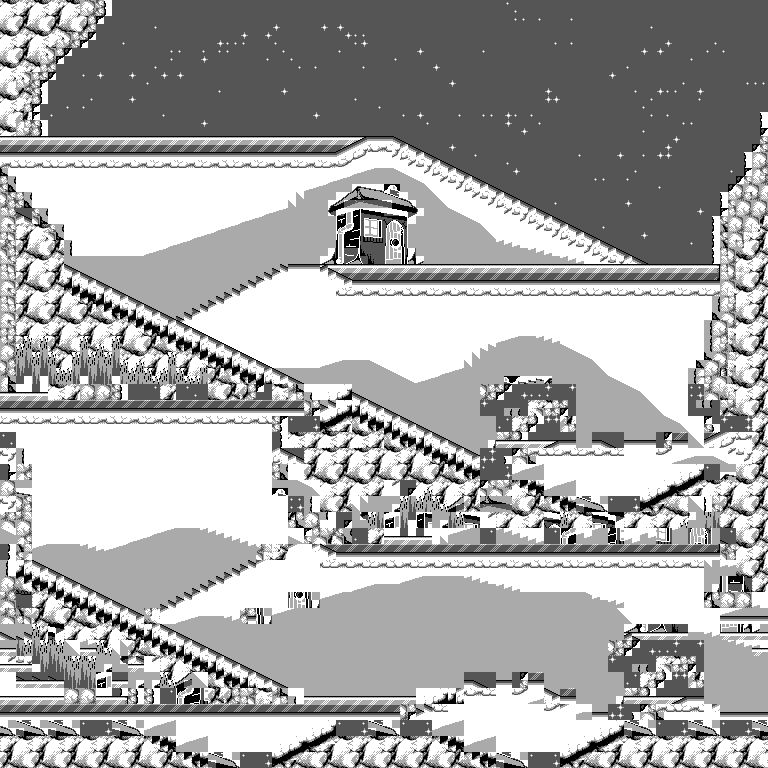
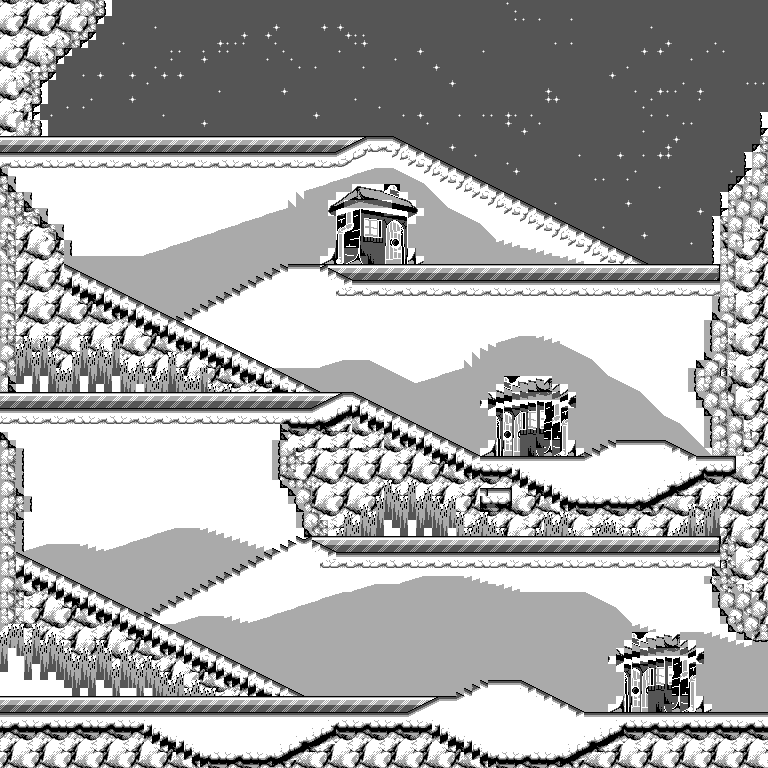
Use extended map data when making map images

diff --git a/tools/map2png/map2png.py b/tools/map2png/map2png.py
@@ -8,8 +8,8 @@ from enum import Enum
 # enum for LevelData
 MAP_BANK = 0
 MAP_BANK_OFFSET = 1
-BLOCKSET_OVERRIDE_BANK = 2
-BLOCKSET_OVERRIDE_BANK_OFFSET = 3
+EXTENDED_MAP_BANK = 2
+EXTENDED_MAP_BANK_OFFSET = 3
 TILESET_BANK = 4
 TILESET_BANK_OFFSET = 5
 BLOCKSET_AND_PALETTE_IDS_BANK = 6
@@ -39,6 +39,51 @@ level_data_pointers = struct.unpack("<"+"H"*61, bank03_data[0x2ca0:0x2d1a])
 
 # loop through the pointers and get data for each
 
+blockset_offsets = [] # list of banks and offsets in the blockset banks
+map_offsets = []
+tileset_offsets = []
+
+for level_counter in range(0, len(level_data_pointers)):
+    #print(bank03_data[p-0x4000:p-0x4000+0x1F])
+    p = level_data_pointers[level_counter]
+    level_data = struct.unpack("<BHBHBHBHBHBHBHBHBHBBBB", bank03_data[p-0x4000:p-0x4000+0x1F])
+    if [level_data[BLOCKSET_AND_PALETTE_IDS_BANK], level_data[BLOCKSET_AND_PALETTE_IDS_BANK_OFFSET]] not in blockset_offsets:
+        blockset_offsets.append([level_data[BLOCKSET_AND_PALETTE_IDS_BANK], level_data[BLOCKSET_AND_PALETTE_IDS_BANK_OFFSET]])
+    if [level_data[MAP_BANK], level_data[MAP_BANK_OFFSET]] not in map_offsets:
+        map_offsets.append([level_data[MAP_BANK], level_data[MAP_BANK_OFFSET]])
+    if [level_data[TILESET_BANK], level_data[TILESET_BANK_OFFSET]] not in tileset_offsets:
+        tileset_offsets.append([level_data[TILESET_BANK], level_data[TILESET_BANK_OFFSET]])
+
+print("Blockset Offsets:")
+sorted_blockset_offsets = sorted(blockset_offsets, key=lambda x: (x[0], x[1]))
+for b in sorted_blockset_offsets:
+    print(f"{b[0]:0{2}x}"+": "+f"{b[1]:0{4}x}")
+
+print("\nMap Offsets:")
+sorted_map_offsets = sorted(map_offsets, key=lambda x: (x[0], x[1]))
+for b in sorted_map_offsets:
+    print(f"{b[0]:0{2}x}"+": "+f"{b[1]:0{4}x}")
+
+print("\nTileset Offsets:")
+sorted_tileset_offsets = sorted(tileset_offsets, key=lambda x: (x[0], x[1]))
+for b in sorted_tileset_offsets:
+    print(f"{b[0]:0{2}x}"+": "+f"{b[1]:0{4}x}")
+
+def get_next_offset(arr, entry):
+    for i, (a, b) in enumerate(arr):
+        if [a, b] == entry:
+            if i + 1 < len(arr):
+                next_a, next_b = arr[i + 1]
+                if next_a == a:
+                    return next_b
+                else:
+                    return 0x8000
+            else:
+                # last element, nothing after
+                return 0x8000
+    print(str(entry) + " not in " + str(arr))
+    raise ValueError("Entry not found in array")
+
 for level_counter in range(0, len(level_data_pointers)):
     #print(bank03_data[p-0x4000:p-0x4000+0x1F])
     p = level_data_pointers[level_counter]
@@ -50,18 +95,22 @@ for level_counter in range(0, len(level_data_pointers)):
     channel_map_number = str(level_counter)
 
     tiles = []
+    blocks = []
+    
+    
+    #os.system('mkdir -p tileset_bins')
+    #os.system('mkdir -p tileset_images')
 
-    # create a colored version of the level's tileset, using palettes
-    tileset_file = "../banks/bank_0"+f"{level_data[TILESET_BANK]:x}"+".bin"
+    
 
-    os.system('mkdir -p tile_bins')
-    os.system('mkdir -p tile_bins/'+level_name+channel_map_number)
-
-    tile_data = open(tileset_file, 'rb').read()[level_data[TILESET_BANK_OFFSET]-0x4000:level_data[TILESET_BANK_OFFSET]-0x4000+0x1000]
+    #out = open('./tileset_bins/tileset_'+level_name+channel_map_number+'.bin', "wb")
+    #out.write(tile_data)
+    #out.close()
+    #os.system('rgbgfx --reverse 1 -o ./tileset_bins/tileset_'+level_name+channel_map_number+'.bin tileset_images/tileset_'+level_name+channel_map_number+'.png')
 
     #print(tile_data)
 
-    count = 0
+    '''count = 0
     for i in range(0, len(tile_data), 0x10):
         data = tile_data[i:i + 0x10]
         if not data:
@@ -71,12 +120,12 @@ for level_counter in range(0, len(level_data_pointers)):
         out.write(data)
         out.close()
         
-        '''palette_index = palette_ids[count]
+        #palette_index = palette_ids[count]
         #print(palette_index)
-        temp_palette_data = palette_data[0x8*palette_index:0x8*palette_index+0x8]
-        f = open("./temp.bin", "wb")
-        f.write(temp_palette_data)
-        f.close()'''
+        #temp_palette_data = palette_data[0x8*palette_index:0x8*palette_index+0x8]
+        #f = open("./temp.bin", "wb")
+        #f.write(temp_palette_data)
+        #f.close()
         
         # -p '+"./temp.bin"+'
         os.system('rgbgfx --reverse 1  --columns -o ./tile_bins/'+level_name+channel_map_number+'/tile_'+f"{count:0{2}x}"+'.bin ./tile_bins/'+level_name+channel_map_number+'/tile_'+f"{count:0{2}x}"+'.png')
@@ -97,10 +146,48 @@ for level_counter in range(0, len(level_data_pointers)):
             count = count + 1
     new_tileset_img.save('./tileset_images/'+level_name+channel_map_number+'_tileset.png')
 
-    os.system('rm -r tile_bins')
+    os.system('rm -r tile_bins')'''
+    # create the colored block images using the palette data, blockset_data and tileset_data
+    tileset_file = "../banks/bank_0"+f"{level_data[TILESET_BANK]:x}"+".bin"
+    end_addr = get_next_offset(sorted_tileset_offsets, [level_data[TILESET_BANK], level_data[TILESET_BANK_OFFSET]])
+    tileset_data = open(tileset_file, 'rb').read()[level_data[TILESET_BANK_OFFSET]-0x4000:end_addr-0x4000]
+
+    blockset_file = "../banks/bank_0"+f"{level_data[BLOCKSET_AND_PALETTE_IDS_BANK]:x}"+".bin"
+    end_addr = get_next_offset(sorted_blockset_offsets, [level_data[BLOCKSET_AND_PALETTE_IDS_BANK], level_data[BLOCKSET_AND_PALETTE_IDS_BANK_OFFSET]])
+    blockset_data = open(blockset_file, "rb").read()[level_data[BLOCKSET_AND_PALETTE_IDS_BANK_OFFSET]-0x4000:end_addr-0x4000]
+
+    os.system('mkdir -p block_bins')
+    os.system('mkdir -p block_bins/'+level_name+channel_map_number)
+    count = 0
+    for i in range(0, len(blockset_data), 0x8):
+        block_data = blockset_data[i:i + 0x8]
+        if not block_data:
+            break
+        
+        out = open('./block_bins/'+level_name+channel_map_number+'/block_'+f"{count:0{2}x}"+'.bin', "wb")
+        out.write(tileset_data[block_data[0]*0x10:block_data[0]*0x10+0x10])
+        out.write(tileset_data[block_data[2]*0x10:block_data[2]*0x10+0x10])
+        out.write(tileset_data[block_data[1]*0x10:block_data[1]*0x10+0x10])
+        out.write(tileset_data[block_data[3]*0x10:block_data[3]*0x10+0x10])
+        out.close()
+        
+        '''palette_index = palette_ids[count]
+        #print(palette_index)
+        temp_palette_data = palette_data[0x8*palette_index:0x8*palette_index+0x8]
+        f = open("./temp.bin", "wb")
+        f.write(temp_palette_data)
+        f.close()'''
+        
+        # -p '+"./temp.bin"+'
+        os.system('rgbgfx --reverse 2  --columns -o ./block_bins/'+level_name+channel_map_number+'/block_'+f"{count:0{2}x}"+'.bin ./block_bins/'+level_name+channel_map_number+'/block_'+f"{count:0{2}x}"+'.png')
+        
+        block_img = PIL.Image.open('./block_bins/'+level_name+channel_map_number+'/block_'+f"{count:0{2}x}"+'.png')
+        blocks.append(block_img)
+
+        count = count + 1
 
     # create the level's blockset from the tileset
-    blockset_file = "../banks/bank_0"+f"{level_data[BLOCKSET_AND_PALETTE_IDS_BANK]:x}"+".bin"
+    '''blockset_file = "../banks/bank_0"+f"{level_data[BLOCKSET_AND_PALETTE_IDS_BANK]:x}"+".bin"
     blockset_data = open(blockset_file, "rb").read()[level_data[BLOCKSET_AND_PALETTE_IDS_BANK_OFFSET]-0x4000:]
     #print(blockset_data)
 
@@ -144,8 +231,7 @@ for level_counter in range(0, len(level_data_pointers)):
             
             block_counter = block_counter + 1
     
-    blockset_img.save(blockset_image_path+level_name+channel_map_number+"_blockset.png")
-
+    blockset_img.save(blockset_image_path+level_name+channel_map_number+"_blockset.png")'''
 
     # build map from map data and blockset image
     map_file = "../banks/bank_0"+f"{level_data[MAP_BANK]:x}"+".bin"
@@ -163,28 +249,30 @@ for level_counter in range(0, len(level_data_pointers)):
     
     #blockset_img = PIL.Image.open(blockset_image_path)
     
-    blockset = []
-    for y in range(0, 16):
-        for x in range(0, 16):
-            blockset.append(blockset_img.crop((x*16, y*16, (x+1)*16, (y+1)*16)))
+    #blockset = []
+    #for y in range(0, 16):
+    #    for x in range(0, 16):
+    #        blockset.append(blockset_img.crop((x*16, y*16, (x+1)*16, (y+1)*16)))
 
-    data = open(map_file, "rb").read()[offset-0x4000:offset-0x4000+width*height]
+    map_data = open(map_file, "rb").read()[offset-0x4000:offset-0x4000+width*height]
     #print(data)
     
-    blockset_override_file = "../banks/bank_0"+f"{level_data[BLOCKSET_OVERRIDE_BANK]:x}"+".bin"
-    blockset_override_data = open(blockset_file, "rb").read()[level_data[BLOCKSET_OVERRIDE_BANK_OFFSET]-0x4000:]
+    extended_map_file = "../banks/bank_0"+f"{level_data[EXTENDED_MAP_BANK]:x}"+".bin"
+    extended_map_data = open(extended_map_file, "rb").read()[level_data[EXTENDED_MAP_BANK_OFFSET]-0x4000:]
 
     count = 0
     img = PIL.Image.new("RGB", (16*width, 16*height))
     draw = PIL.ImageDraw.Draw(img)
     for y in range(0, height):
         for x in range(0, width):
-            draw.rectangle(((x*16,y*16), ((x+1)*16,(y+1)*16)), data[count],3)
+            draw.rectangle(((x*16,y*16), ((x+1)*16,(y+1)*16)), map_data[count],3)
             
-            img.paste(blockset[data[count]], (x*16, y*16))
+            img.paste(blocks[map_data[count] + 0x100 * extended_map_data[count]], (x*16, y*16))
             
             count = count+1
     
     img.save(map_image_path+level_name+channel_map_number+"_map.png")
+
+    os.system('rm -r block_bins')
 
     #break # just do first one for testing
